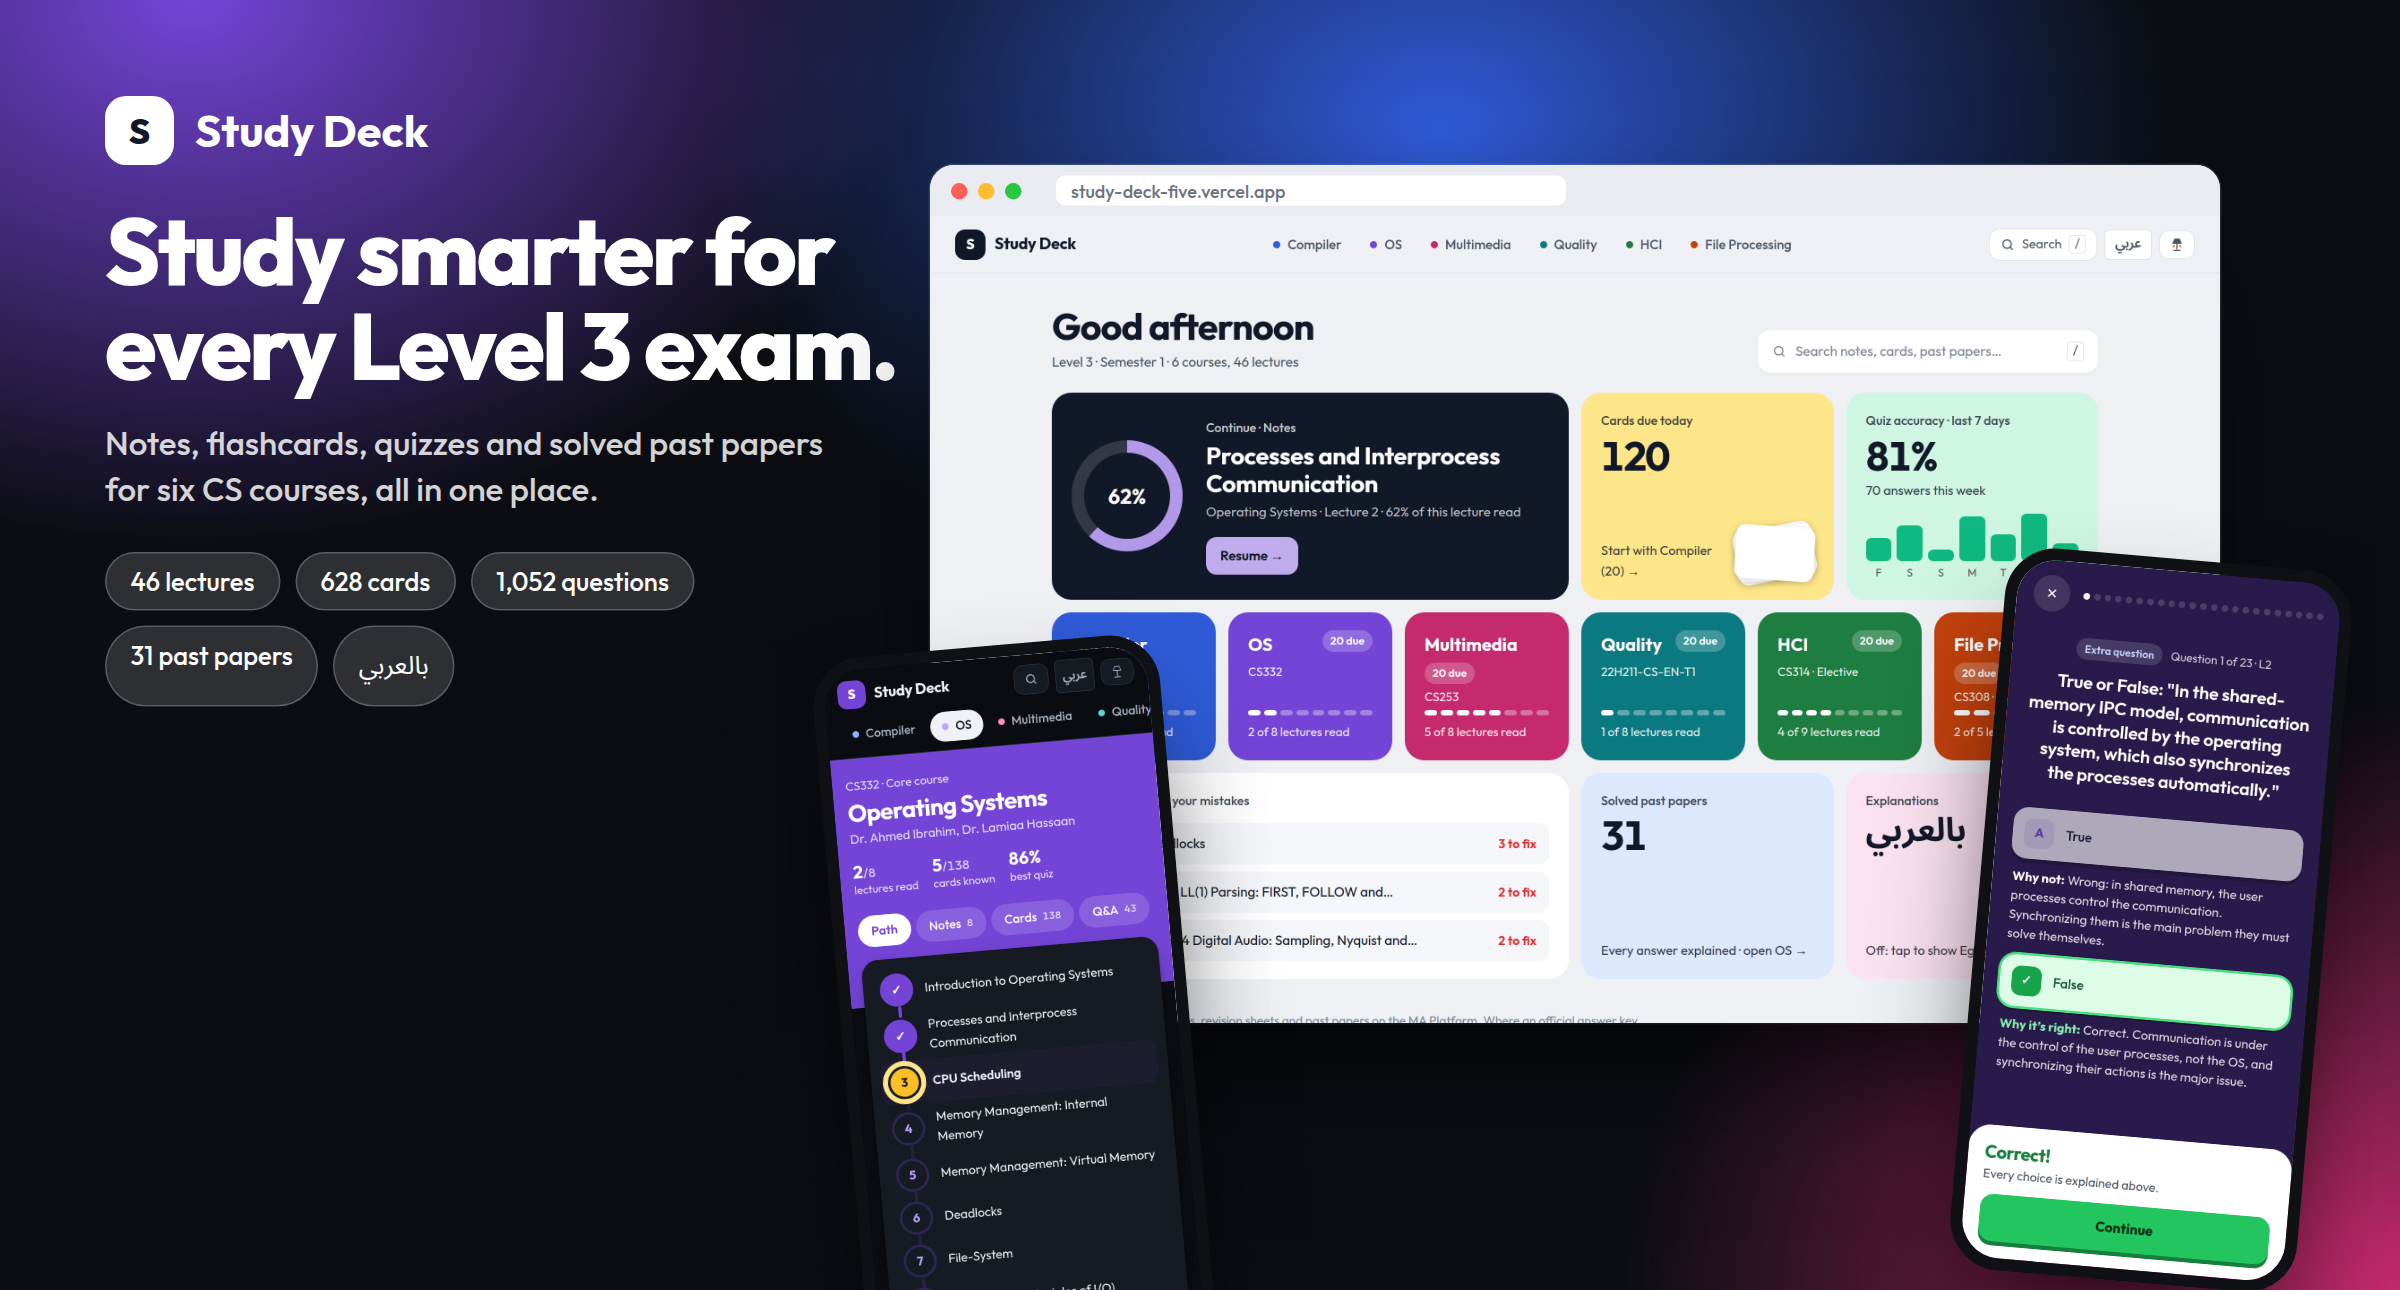
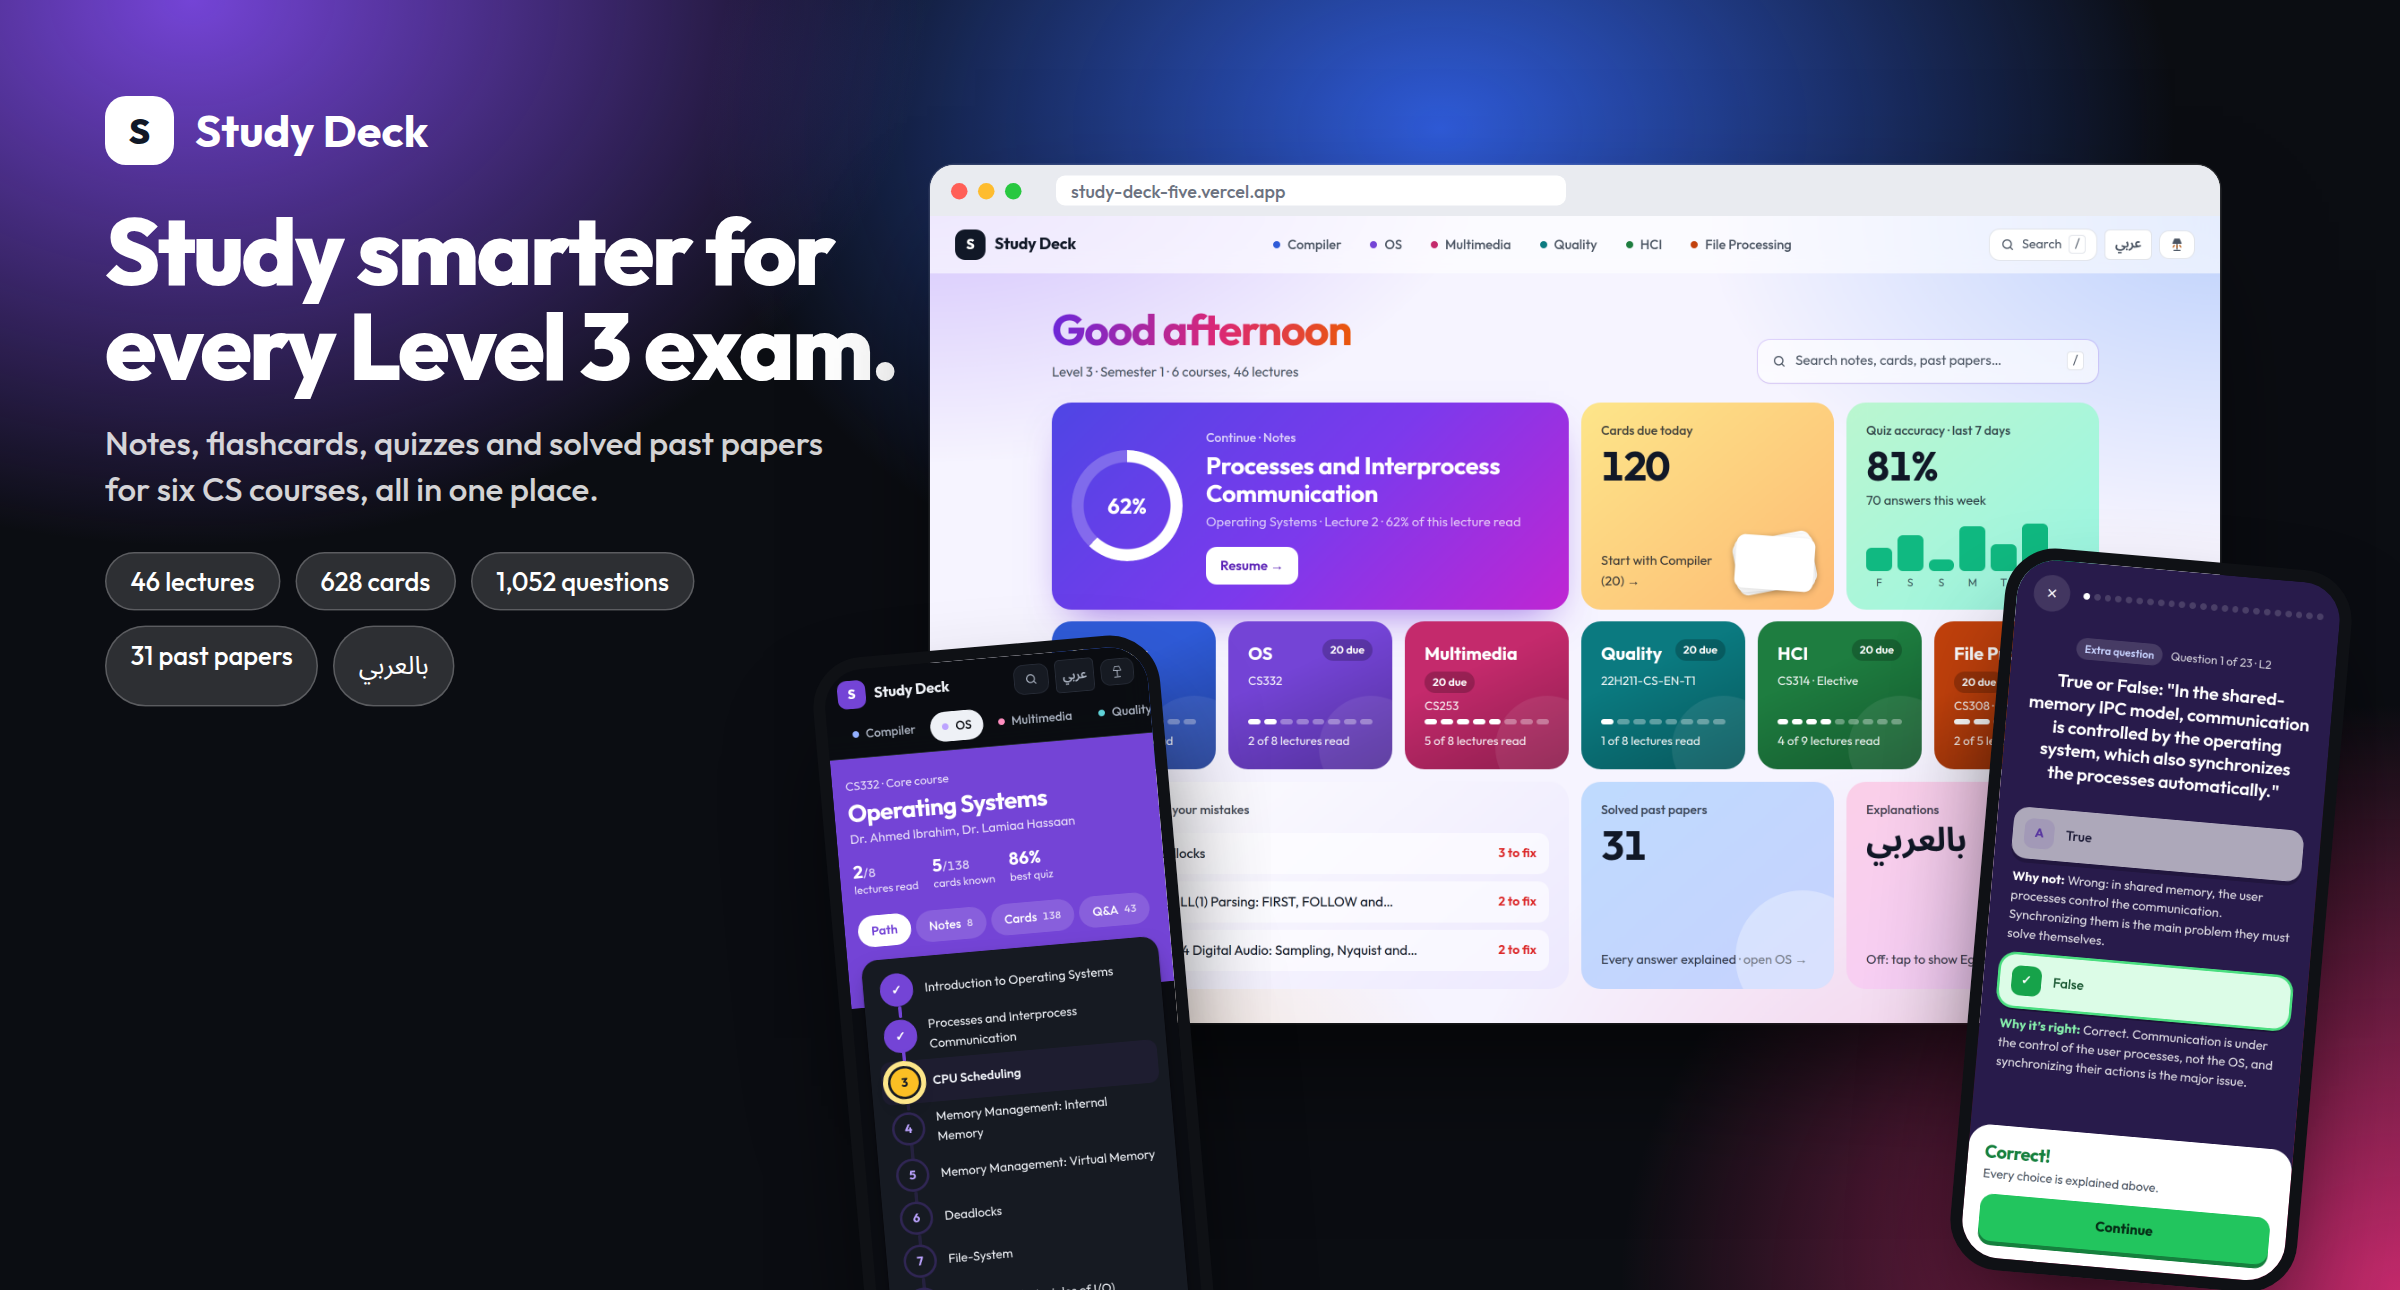
Make the home page colourful

Changed region(s): [[0.375, 0.186, 0.9375, 0.7752], [0.5, 0.6822, 0.5938, 0.7442], [0.4688, 0.6512, 0.5, 0.6822]]

diff --git a/index.html b/index.html
@@ -20,6 +20,11 @@
   --s-compiler:#2F5BD8; --s-os:#7444D6; --s-mm:#C42A6C; --s-qa:#0B7A80; --s-hci:#1E7D40; --s-fp:#C2410C;
   --c:#4B5563; --s:#111827; --on-s:#FFFFFF; --hero:#111827; --on-hero:#FFFFFF;
   --t-yellow:#FDE68A; --t-green:#CFF5E3; --t-blue:#DBE8FE; --t-pink:#FBE2F0; --t-ink:#111827;
+  --aurora:radial-gradient(900px 540px at 0% -10%, rgba(139,92,246,.40), transparent 70%), radial-gradient(820px 520px at 100% 0%, rgba(59,130,246,.30), transparent 70%), radial-gradient(900px 620px at 85% 100%, rgba(236,72,153,.24), transparent 70%), radial-gradient(760px 520px at 5% 100%, rgba(245,158,11,.22), transparent 70%), #F6F4FF;
+  --glass:rgba(255,255,255,.6); --hello:linear-gradient(90deg, #6D28D9, #DB2777 55%, #EA580C);
+  --g-cont:linear-gradient(135deg, #4F46E5 0%, #7C3AED 52%, #C026D3 100%); --g-due:linear-gradient(140deg, #FDE68A, #FDBA74);
+  --g-acc:linear-gradient(140deg, #BBF7D0, #99F6E4); --g-pap:linear-gradient(140deg, #BFDBFE, #C7D2FE); --g-ar:linear-gradient(140deg, #FBCFE8, #F5D0FE);
+  --g-weak:linear-gradient(140deg, #FFFFFF, #EDE9FE);
   --tile-bg:#FFFFFF; --tile-ink:#111827; --bk-bg:#D9DAD6; --bk-edge:#E4E2D8;
   --shadow-sm:0 1px 2px rgba(17,24,39,.05);
   --shadow:0 1px 2px rgba(17,24,39,.05), 0 12px 32px -14px rgba(17,24,39,.22);
@@ -39,6 +44,11 @@
     --k-compiler:#93B0FF; --k-os:#BCA3FF; --k-mm:#FF8FC0; --k-qa:#5FD3D8; --k-hci:#74D79B; --k-fp:#FFA474;
     --c:#C9CFDA; --s:#E5E7EB; --on-s:#111827; --hero:#1E2433; --on-hero:#FFFFFF;
     --t-yellow:#3A3116; --t-green:#10302A; --t-blue:#15284A; --t-pink:#3A1A33; --t-ink:#EEF1F6;
+    --aurora:radial-gradient(900px 540px at 0% -10%, rgba(116,68,214,.55), transparent 70%), radial-gradient(820px 520px at 100% 0%, rgba(47,91,216,.42), transparent 70%), radial-gradient(900px 620px at 85% 100%, rgba(196,42,108,.36), transparent 70%), radial-gradient(760px 520px at 5% 100%, rgba(217,119,6,.20), transparent 70%), #0B0D12;
+    --glass:rgba(22,26,34,.6); --hello:linear-gradient(90deg, #C4B5FD, #F9A8D4 55%, #FDBA74);
+    --g-cont:linear-gradient(135deg, #4338CA 0%, #6D28D9 52%, #A21CAF 100%); --g-due:linear-gradient(140deg, #4A3A0E, #5A2E0D);
+    --g-acc:linear-gradient(140deg, #0E3B2C, #0C3A3E); --g-pap:linear-gradient(140deg, #16305C, #26276B); --g-ar:linear-gradient(140deg, #4A1838, #3F1A55);
+    --g-weak:linear-gradient(140deg, #1A1E2B, #2A2350);
     --tile-bg:#232937; --tile-ink:#EEF1F6; --bk-bg:#09090B; --bk-edge:#2E3236;
     --shadow-sm:0 1px 2px rgba(0,0,0,.4); --shadow:0 1px 2px rgba(0,0,0,.4), 0 12px 32px -14px rgba(0,0,0,.7);
   }
@@ -51,6 +61,11 @@
   --k-compiler:#93B0FF; --k-os:#BCA3FF; --k-mm:#FF8FC0; --k-qa:#5FD3D8; --k-hci:#74D79B; --k-fp:#FFA474;
   --c:#C9CFDA; --s:#E5E7EB; --on-s:#111827; --hero:#1E2433; --on-hero:#FFFFFF;
   --t-yellow:#3A3116; --t-green:#10302A; --t-blue:#15284A; --t-pink:#3A1A33; --t-ink:#EEF1F6;
+  --aurora:radial-gradient(900px 540px at 0% -10%, rgba(116,68,214,.55), transparent 70%), radial-gradient(820px 520px at 100% 0%, rgba(47,91,216,.42), transparent 70%), radial-gradient(900px 620px at 85% 100%, rgba(196,42,108,.36), transparent 70%), radial-gradient(760px 520px at 5% 100%, rgba(217,119,6,.20), transparent 70%), #0B0D12;
+  --glass:rgba(22,26,34,.6); --hello:linear-gradient(90deg, #C4B5FD, #F9A8D4 55%, #FDBA74);
+  --g-cont:linear-gradient(135deg, #4338CA 0%, #6D28D9 52%, #A21CAF 100%); --g-due:linear-gradient(140deg, #4A3A0E, #5A2E0D);
+  --g-acc:linear-gradient(140deg, #0E3B2C, #0C3A3E); --g-pap:linear-gradient(140deg, #16305C, #26276B); --g-ar:linear-gradient(140deg, #4A1838, #3F1A55);
+  --g-weak:linear-gradient(140deg, #1A1E2B, #2A2350);
   --tile-bg:#232937; --tile-ink:#EEF1F6; --bk-bg:#09090B; --bk-edge:#2E3236;
   --shadow-sm:0 1px 2px rgba(0,0,0,.4); --shadow:0 1px 2px rgba(0,0,0,.4), 0 12px 32px -14px rgba(0,0,0,.7);
 }
@@ -112,63 +127,74 @@ kbd{ font-family:var(--mono); font-size:.75rem; border:1px solid var(--line); bo
 .foot{ margin-top:36px; color:var(--faint); font-size:.85rem; max-width:80ch; }
 
 /* ───── home: bento tiles ───── */
+.home-page{ min-height:100vh; background:var(--aurora); }
+.home-page .topbar{ background:var(--glass); border-bottom-color:transparent; }
+.home-page .cpill:hover{ background:var(--glass); }
 .hello{ display:flex; justify-content:space-between; align-items:flex-end; gap:16px; flex-wrap:wrap; margin:6px 0 22px; }
-.hello h1{ font-size:clamp(1.9rem, 4vw, 2.6rem); letter-spacing:-.025em; }
+.hello h1{ font-size:clamp(2.1rem, 4.6vw, 3rem); letter-spacing:-.03em; background:var(--hello); -webkit-background-clip:text; background-clip:text; color:transparent; padding-bottom:.06em; }
 .hello p{ margin:4px 0 0; color:var(--graphite); }
-.hsearch{ display:flex; align-items:center; gap:10px; width:min(380px, 100%); height:48px; padding:0 16px; border:0; border-radius:14px; background:var(--paper); color:var(--faint); font:inherit; font-size:.95rem; cursor:pointer; box-shadow:var(--shadow-sm); }
+.hsearch{ display:flex; align-items:center; gap:10px; width:min(380px, 100%); height:48px; padding:0 16px; border:0; border-radius:14px; background:var(--glass); color:var(--graphite); font:inherit; font-size:.95rem; cursor:pointer; box-shadow:0 0 0 1px rgba(124,58,237,.22), var(--shadow-sm); backdrop-filter:blur(10px); -webkit-backdrop-filter:blur(10px); }
 .hsearch span{ flex:1; text-align:left; }
 .bento{ display:grid; grid-template-columns:repeat(4, minmax(0, 1fr)); gap:14px; }
 .tile{ position:relative; overflow:hidden; border:0; border-radius:22px; padding:20px 22px; background:var(--tile-bg); color:var(--tile-ink); text-align:left; font:inherit; display:flex; flex-direction:column; gap:4px; min-height:176px; }
 button.tile{ cursor:pointer; transition:transform .15s ease, box-shadow .15s ease; }
-button.tile:hover:not(:disabled){ transform:translateY(-2px); box-shadow:var(--shadow); }
+button.tile:hover:not(:disabled){ transform:translateY(-3px); box-shadow:0 18px 36px -16px color-mix(in srgb, var(--spd, #7C3AED) 70%, transparent); }
+.tile{ animation:tile-in .5s cubic-bezier(.2,.8,.2,1) both; }
+.bento > :nth-child(2){ animation-delay:.05s; } .bento > :nth-child(3){ animation-delay:.1s; } .bento > :nth-child(5){ animation-delay:.2s; } .bento > :nth-child(6){ animation-delay:.25s; } .bento > :nth-child(7){ animation-delay:.3s; }
+.t-courses > :nth-child(1){ animation-delay:.12s; } .t-courses > :nth-child(2){ animation-delay:.15s; } .t-courses > :nth-child(3){ animation-delay:.18s; } .t-courses > :nth-child(4){ animation-delay:.21s; } .t-courses > :nth-child(5){ animation-delay:.24s; } .t-courses > :nth-child(6){ animation-delay:.27s; }
+@keyframes tile-in{ from{ opacity:0; transform:translateY(14px) scale(.985); } }
+@media (prefers-reduced-motion: reduce){ .tile{ animation:none; } }
 button.tile:disabled{ cursor:default; }
 .tl{ font-size:.88rem; font-weight:500; opacity:.78; }
 .big{ font-size:2.8rem; font-weight:700; letter-spacing:-.03em; line-height:1.05; font-variant-numeric:tabular-nums; }
 .tsub{ font-size:.9rem; opacity:.82; margin-top:auto; }
-.t-cont{ grid-column:span 2; background:var(--hero); color:var(--on-hero); flex-direction:row; align-items:center; gap:26px; min-height:216px; }
-.ring{ --p:0; width:124px; height:124px; flex:none; border-radius:50%; display:grid; place-items:center;
-  background:conic-gradient(color-mix(in srgb, var(--spd, #8B5CF6) 55%, #fff) calc(var(--p) * 1%), rgba(255,255,255,.14) 0); }
-.ring i{ width:96px; height:96px; border-radius:50%; background:var(--hero); display:grid; place-items:center; font-style:normal; font-size:1.45rem; font-weight:700; }
+.t-cont{ --spd:#7C3AED; grid-column:span 2; background:var(--g-cont); color:#fff; box-shadow:0 20px 44px -22px rgba(109,40,217,.75); flex-direction:row; align-items:center; gap:26px; min-height:216px; }
+.ring{ --p:0; position:relative; width:124px; height:124px; flex:none; display:grid; place-items:center; }
+.ring::before{ content:""; position:absolute; inset:0; border-radius:50%; background:conic-gradient(#fff calc(var(--p) * 1%), rgba(255,255,255,.22) 0);
+  -webkit-mask:radial-gradient(farthest-side, transparent calc(100% - 14px), #000 calc(100% - 13px)); mask:radial-gradient(farthest-side, transparent calc(100% - 14px), #000 calc(100% - 13px)); }
+.ring i{ font-style:normal; font-size:1.5rem; font-weight:700; }
 .tc-text{ display:flex; flex-direction:column; gap:4px; min-width:0; }
 .tc-title{ font-size:clamp(1.3rem, 2.4vw, 1.7rem); font-weight:700; line-height:1.15; letter-spacing:-.015em; }
 .tc-sub{ opacity:.72; font-size:.92rem; }
-.tgo{ align-self:flex-start; margin-top:12px; background:color-mix(in srgb, var(--spd, #8B5CF6) 45%, #fff); color:#111827; border-radius:12px; padding:9px 16px; font-weight:600; }
-.t-due{ background:var(--t-yellow); color:var(--t-ink); }
+.tgo{ align-self:flex-start; margin-top:12px; background:#fff; color:#5B21B6; border-radius:12px; padding:9px 16px; font-weight:600; }
+.t-due{ --spd:#F59E0B; background:var(--g-due); color:var(--t-ink); }
 .t-due .tsub{ max-width:58%; }
 .stk{ position:absolute; right:22px; bottom:22px; width:88px; height:60px; }
-.stk i{ position:absolute; inset:0; background:var(--tile-bg); border-radius:10px; box-shadow:0 2px 8px rgba(0,0,0,.14); }
+.stk i{ position:absolute; inset:0; background:#fff; border-radius:10px; box-shadow:0 2px 8px rgba(0,0,0,.14); }
 .stk i:nth-child(1){ transform:rotate(-11deg); } .stk i:nth-child(2){ transform:rotate(-4deg); } .stk i:nth-child(3){ transform:rotate(4deg); }
-.t-acc{ background:var(--t-green); color:var(--t-ink); }
+.t-acc{ background:var(--g-acc); color:var(--t-ink); }
 .bars{ display:flex; gap:6px; height:76px; margin-top:10px; }
 .bars > span{ flex:1; display:flex; flex-direction:column; align-items:center; gap:3px; }
 .bars b{ flex:1; width:100%; display:flex; align-items:flex-end; }
 .bars i{ display:block; width:100%; background:#10B981; border-radius:6px; }
 .bars em{ font-style:normal; font-size:.75rem; opacity:.7; }
 .t-courses{ grid-column:1 / -1; display:grid; grid-template-columns:repeat(6, minmax(0, 1fr)); gap:14px; }
-.t-course{ background:var(--spd); color:#fff; min-height:156px; }
+.t-course{ background:linear-gradient(155deg, var(--spd) 35%, color-mix(in srgb, var(--spd) 72%, #000)); color:#fff; min-height:156px; }
+.t-course::after{ content:""; position:absolute; right:-34px; bottom:-34px; width:116px; height:116px; border-radius:50%; background:rgba(255,255,255,.08); pointer-events:none; }
 .tcn{ display:flex; flex-wrap:wrap; justify-content:space-between; align-items:flex-start; gap:4px 8px; }
 .tcn b{ font-size:1.25rem; font-weight:700; }
-.tcn em{ font-style:normal; font-size:.78rem; font-weight:600; background:rgba(255,255,255,.22); border-radius:99px; padding:2px 9px; white-space:nowrap; }
+.tcn em{ font-style:normal; font-size:.78rem; font-weight:600; background:rgba(0,0,0,.22); border-radius:99px; padding:2px 9px; white-space:nowrap; }
 .tcs{ font-size:.84rem; opacity:.92; }
 .dots{ display:flex; gap:4px; margin-top:auto; margin-bottom:4px; }
 .dots i{ flex:1; max-width:18px; height:6px; border-radius:9px; background:rgba(255,255,255,.35); }
 .dots i.f{ background:#fff; }
-.t-weak{ grid-column:span 2; min-height:0; }
+.t-weak{ grid-column:span 2; min-height:0; background:var(--g-weak); color:var(--ink); }
 .t-weak ul{ list-style:none; margin:10px 0 0; padding:0; display:flex; flex-direction:column; gap:8px; }
-.t-weak li button{ width:100%; display:flex; align-items:center; gap:10px; border:0; border-radius:12px; background:var(--paper-2); padding:11px 14px; font:inherit; color:var(--ink); cursor:pointer; text-align:left; }
-.t-weak li button:hover{ background:color-mix(in srgb, var(--ink) 7%, var(--paper-2)); }
+.t-weak li button{ width:100%; display:flex; align-items:center; gap:10px; border:0; border-radius:12px; background:var(--glass); padding:11px 14px; font:inherit; color:var(--ink); cursor:pointer; text-align:left; }
+.t-weak li button:hover{ background:var(--paper); }
 .t-weak li i{ width:8px; height:8px; border-radius:50%; background:var(--sp); flex:none; }
 .t-weak li span{ flex:1; min-width:0; overflow:hidden; text-overflow:ellipsis; white-space:nowrap; }
 .t-weak li em{ font-style:normal; color:var(--pen); font-weight:600; font-size:.88rem; flex:none; }
 .tempty{ color:var(--graphite); margin:10px 0 0; max-width:46ch; }
-.t-papers{ background:var(--t-blue); color:var(--t-ink); }
-.t-ar{ background:var(--t-pink); color:var(--t-ink); }
+.t-papers{ --spd:#3B82F6; background:var(--g-pap); color:var(--t-ink); }
+.t-ar{ --spd:#EC4899; background:var(--g-ar); color:var(--t-ink); }
+.t-papers::after, .t-ar::after{ content:""; position:absolute; right:-40px; bottom:-40px; width:150px; height:150px; border-radius:50%; background:var(--glass); opacity:.55; pointer-events:none; }
 .t-ar .big{ font-family:"IBM Plex Sans Arabic", "Noto Sans Arabic", Tahoma, sans-serif; font-size:2.3rem; }
 .t-ar.on{ box-shadow:inset 0 0 0 3px var(--t-ink); }
 @media (max-width:1000px){ .bento{ grid-template-columns:repeat(2, minmax(0, 1fr)); } .t-courses{ grid-template-columns:repeat(3, minmax(0, 1fr)); } }
 @media (max-width:600px){
   .bento{ grid-template-columns:minmax(0, 1fr); } .t-cont, .t-weak{ grid-column:auto; }
-  .t-cont{ flex-direction:column; align-items:flex-start; gap:16px; } .ring{ width:96px; height:96px; } .ring i{ width:74px; height:74px; font-size:1.2rem; }
+  .t-cont{ flex-direction:column; align-items:flex-start; gap:16px; } .ring{ width:96px; height:96px; } .ring::before{ -webkit-mask:radial-gradient(farthest-side, transparent calc(100% - 11px), #000 calc(100% - 10px)); mask:radial-gradient(farthest-side, transparent calc(100% - 11px), #000 calc(100% - 10px)); } .ring i{ font-size:1.2rem; }
   .t-courses{ grid-template-columns:repeat(2, minmax(0, 1fr)); } .tile{ min-height:0; } .t-course{ min-height:140px; }
 }
 

diff --git a/app.js b/app.js
@@ -323,7 +323,7 @@ function start() {
     const modeName = { path: 'Path', read: 'Notes', cards: 'Cards', ask: 'Q&A', quiz: 'Quiz', papers: 'Past papers', progress: 'Progress', miss: 'Progress' };
     const openCourse = (k, extra) => { go(Object.assign({ view: 'course', course: k, mode: 'path', lec: lastLec(k), anchor: null, quizPreset: null, cardFocus: null, cardLec: null }, extra || {})); window.scrollTo(0, 0); };
     const dayLetter = d => 'SMTWTFS'[new Date(d * 86400000).getUTCDay()];
-    return html`<div className="page">
+    return html`<div className="page home-page">
       <${Topbar} bar=${bar} cur=${null} />
       <main className="content home">
         <div className="hello">
